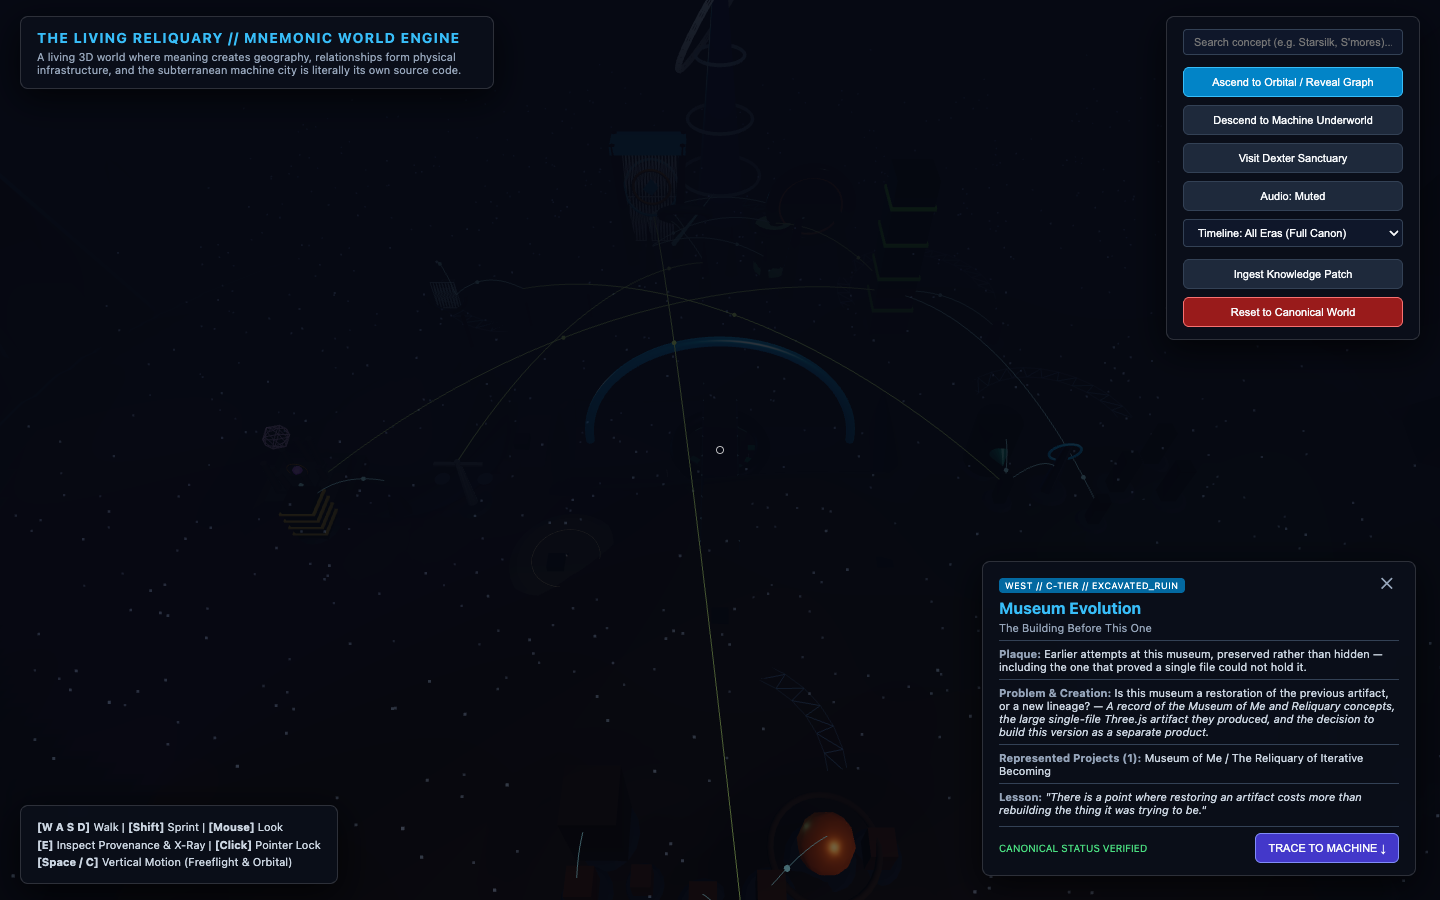
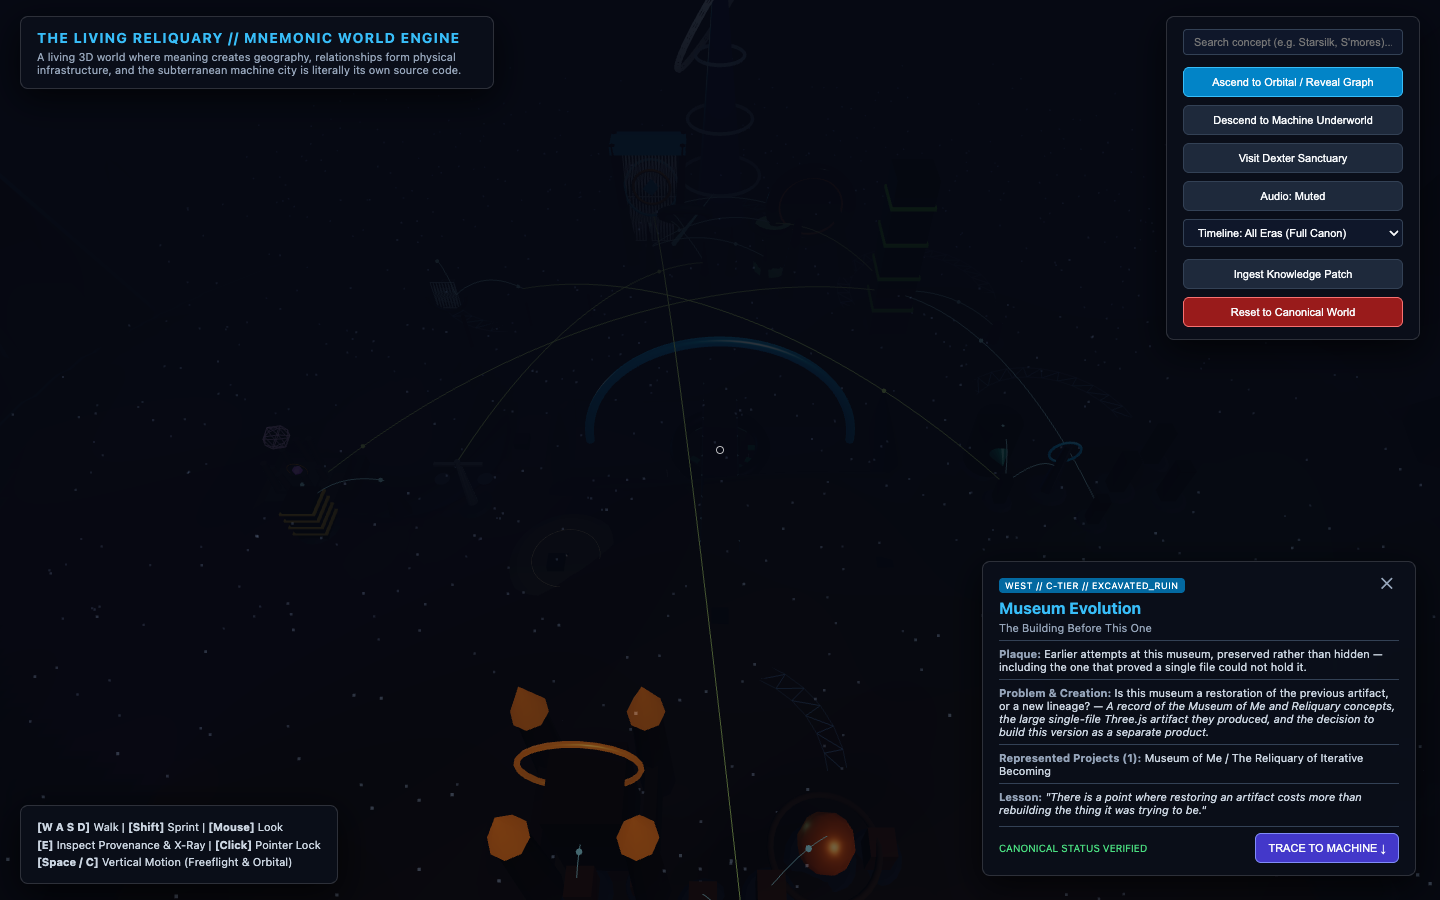
refine(loop-02): authored quadruple-bastion curtain wall keep for Invincible Magic Citadel

diff --git a/src/world/LandmarkBuilder.ts b/src/world/LandmarkBuilder.ts
@@ -397,20 +397,47 @@ export class LandmarkBuilder {
     g.add(ring1);
   }
 
-  // 11. E24: Invincible Magic Citadel
+  // 11. E24: Invincible Magic Citadel (Hero high-fantasy fortified bastion)
   private static buildInvincibleCitadel(g: THREE.Group, s: number) {
-    const castleMat = this.getMaterial(0x2c1b18, 0.7, 0.3);
+    const castleMat = this.getMaterial(0x241412, 0.75, 0.35);
+    const goldArmor = this.getMaterial(0xd97706, 0.25, 0.9, 0xb45309);
     const magicGlow = this.getMaterial(0xff7043, 0.2, 0.8, 0xbf360c);
 
-    const keep = new THREE.Mesh(new THREE.BoxGeometry(6 * s, 14 * s, 6 * s), castleMat);
-    keep.position.set(0, 7 * s, 0);
+    // Central Citadel Keep with machicolations
+    const keep = new THREE.Mesh(new THREE.BoxGeometry(8 * s, 18 * s, 8 * s), castleMat);
+    keep.position.set(0, 9 * s, 0);
     g.add(keep);
 
-    // Floating floating arcane crown
-    const crown = new THREE.Mesh(new THREE.OctahedronGeometry(2 * s), magicGlow);
-    crown.position.set(0, 17 * s, 0);
+    // Four corner defensive bastion towers with conical spires
+    for (const sx of [-1, 1]) {
+      for (const sz of [-1, 1]) {
+        const turret = new THREE.Mesh(new THREE.CylinderGeometry(1.6 * s, 2.2 * s, 22 * s, 8), castleMat);
+        turret.position.set(sx * 6 * s, 11 * s, sz * 6 * s);
+        g.add(turret);
+
+        const spire = new THREE.Mesh(new THREE.ConeGeometry(2 * s, 6 * s, 8), goldArmor);
+        spire.position.set(sx * 6 * s, 24 * s, sz * 6 * s);
+        g.add(spire);
+      }
+    }
+
+    // Outer curtain wall bastions
+    for (const sx of [-1, 1]) {
+      const wall = new THREE.Mesh(new THREE.BoxGeometry(1.4 * s, 10 * s, 12 * s), castleMat);
+      wall.position.set(sx * 6 * s, 5 * s, 0);
+      g.add(wall);
+    }
+
+    // Floating arcane crown & rotating planetary runic shield
+    const crown = new THREE.Mesh(new THREE.OctahedronGeometry(2.8 * s, 1), magicGlow);
+    crown.position.set(0, 22 * s, 0);
     crown.name = 'arcane_crown';
     g.add(crown);
+
+    const shieldRing = new THREE.Mesh(new THREE.TorusGeometry(6 * s, 0.3 * s, 6, 24), goldArmor);
+    shieldRing.position.set(0, 22 * s, 0);
+    shieldRing.name = 'rotating_ring_1';
+    g.add(shieldRing);
   }
 
   // 12. E29: Arkship Hull
